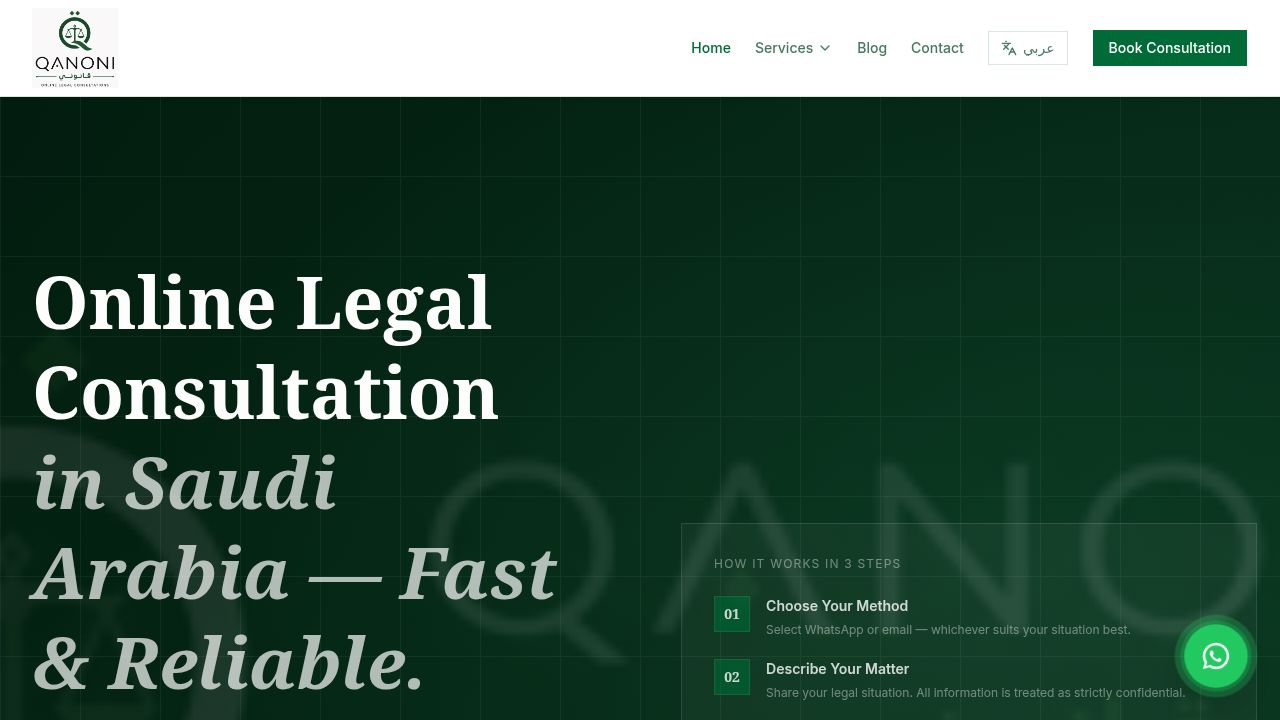
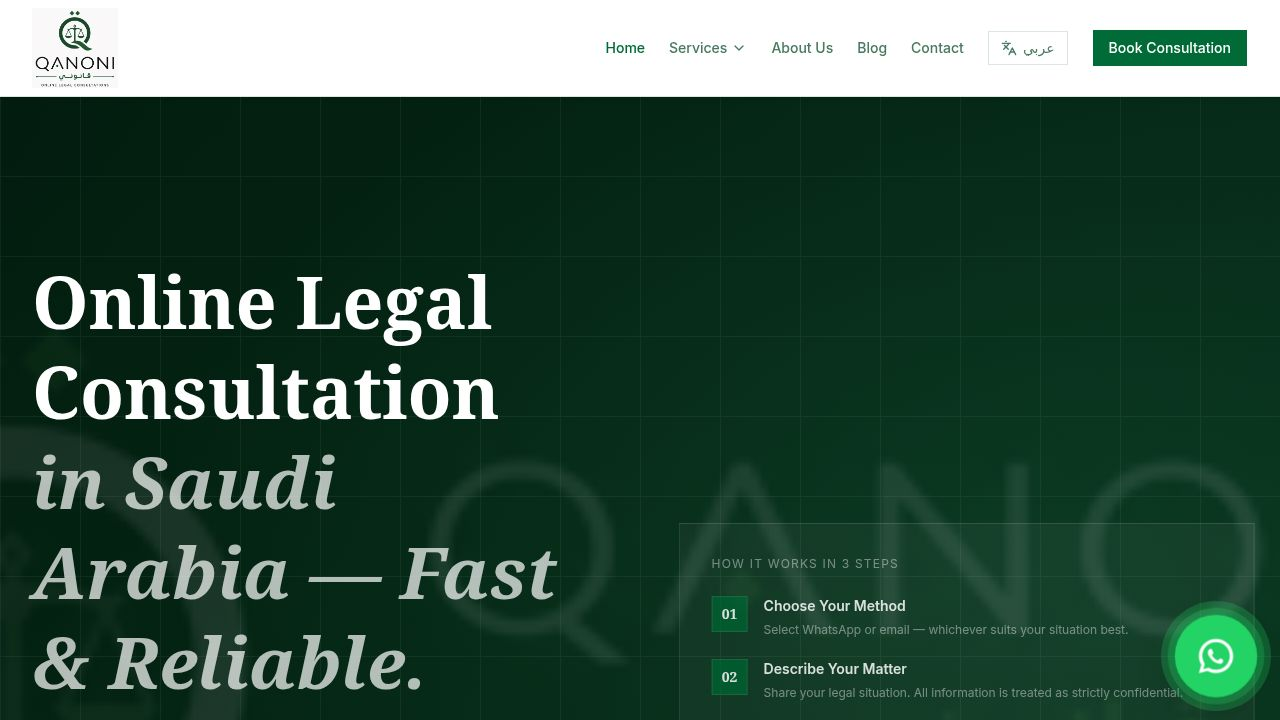
Add specific partner law firm details to the about page
Update the About page component and translation files to include the partner lawyer's name, license number, and full address for the Jubail office.

Replit-Commit-Author: Agent
Replit-Commit-Session-Id: bfefcff4-0caf-4eeb-a409-95a36b264a66
Replit-Commit-Checkpoint-Type: full_checkpoint
Replit-Commit-Event-Id: 6e372173-faa9-4c4b-8741-12a7a0e9f03f
Replit-Commit-Screenshot-Url: https://storage.googleapis.com/screenshot-production-us-central1/f129d334-b481-4846-ada9-79e4f7c0e077/bfefcff4-0caf-4eeb-a409-95a36b264a66/8v328af
Replit-Helium-Checkpoint-Created: true

diff --git a/artifacts/legal-site/src/pages/about.tsx b/artifacts/legal-site/src/pages/about.tsx
@@ -262,19 +262,22 @@ export default function About() {
             </motion.div>
             <motion.div initial={{ opacity: 0, x: isRTL ? -20 : 20 }} whileInView={{ opacity: 1, x: 0 }} viewport={{ once: true }}>
               <div className="bg-primary p-10 text-white">
-                <div className="flex items-center gap-4 mb-6">
-                  <div className="w-14 h-14 bg-white/15 border border-white/25 flex items-center justify-center">
+                <div className="flex items-start gap-4 mb-6">
+                  <div className="w-14 h-14 bg-white/15 border border-white/25 flex items-center justify-center shrink-0">
                     <MapPin className="h-7 w-7 text-white" />
                   </div>
                   <div>
-                    <div className="font-serif font-bold text-xl">{a.office.city}</div>
-                    <div className="text-white/70 text-sm">{a.office.region}</div>
+                    <div className="font-serif font-bold text-xl">{a.office.partnerName}</div>
+                    <div className="text-white/60 text-xs font-semibold uppercase tracking-wider mt-1">{a.office.licenseNo}</div>
                   </div>
+                </div>
+                <div className="border-t border-white/20 pt-6 mb-6">
+                  <p className="text-white/80 text-sm leading-relaxed whitespace-pre-line">{a.office.address}</p>
                 </div>
                 <div className="border-t border-white/20 pt-6 space-y-3">
                   {[
-                    isRTL ? "حضور قانوني ميداني في المنطقة الشرقية" : "Physical legal presence in the Eastern Province",
-                    isRTL ? "خدمة المحاكم والتوثيق والتمثيل الميداني" : "Court attendance, notarisation & in-person representation",
+                    isRTL ? "مكتب محاماة مرخَّص في المنطقة الشرقية" : "Licensed law office in the Eastern Province",
+                    isRTL ? "حضور شخصي أمام المحاكم وتوثيق الوثائق" : "Court attendance & official document processing",
                     isRTL ? "متكامل مع الخدمة الرقمية الأونلاين" : "Integrated with our full online digital service",
                     isRTL ? "يخدم عملاء جميع أنحاء المملكة" : "Serving clients across all of Saudi Arabia",
                   ].map((item, i) => (

diff --git a/artifacts/legal-site/src/translations/ar.ts b/artifacts/legal-site/src/translations/ar.ts
@@ -4889,11 +4889,14 @@ export const ar: typeof en = {
     },
     office: {
       eyebrow: "الحضور الميداني",
-      heading: "مكتب الجبيل، المملكة العربية السعودية — المنطقة الشرقية",
-      p1: "إضافةً إلى منصتنا الرقمية الكاملة، تعمل قانوني بالتعاون مع مكتب محاماة ميداني في الجبيل بالمملكة العربية السعودية — في المنطقة الشرقية. يكفل هذا الحضور الميداني أنه حين تستلزم قضيتك حضوراً شخصياً أمام المحاكم أو توثيق وثائق أو تمثيلاً وجهاً لوجه، سيكون فريقنا حاضراً.",
-      p2: "يستفيد عملاء قانوني في جميع أنحاء المملكة من سرعة الاستشارات الأونلاين ومرونتها، إلى جانب التمثيل القانوني الشامل المتاح عبر مكتب شريكنا الميداني في الجبيل حين تستدعي قضيتهم ذلك. سهولة رقمية — مع دعم ميداني حين تحتاجه.",
-      city: "الجبيل، المملكة العربية السعودية",
-      region: "المنطقة الشرقية · مدينة الجبيل الصناعية",
+      heading: "مكتب الجبيل — المحامي عبدالله العنزي",
+      p1: "إضافةً إلى منصتها الرقمية الكاملة، تتعاون قانوني مع مكتب المحامي عبدالله العنزي (رقم الترخيص 37440) في الجبيل البلد، المنطقة الشرقية — شارع المدينة المنورة، مبنى ردمه للشقق الفندقية. يضمن هذا الحضور الميداني أنه حين تستلزم قضيتك حضوراً شخصياً أمام المحاكم أو توثيق وثائق رسمية أو تمثيلاً قانونياً مباشراً، يتوفر لك مكتب محلي مرخَّص وجاهز للمساعدة.",
+      p2: "يستفيد عملاء قانوني في جميع أنحاء المملكة من سرعة خدمة الاستشارات الأونلاين ومرونتها، إلى جانب التمثيل القانوني الشامل المتاح عبر مكتبنا الميداني المرخَّص في الجبيل حين تستدعي قضيتهم ذلك. سهولة رقمية — مدعومة بحضور مكتبي ميداني حين تحتاجه.",
+      city: "الجبيل البلد، المملكة العربية السعودية",
+      region: "المنطقة الشرقية · شارع المدينة المنورة، مبنى ردمه للشقق الفندقية",
+      partnerName: "المحامي عبدالله العنزي",
+      licenseNo: "رقم الترخيص 37440",
+      address: "الجبيل البلد — شارع المدينة المنورة\nمبنى ردمه للشقق الفندقية\nالمنطقة الشرقية، المملكة العربية السعودية",
     },
     why: {
       eyebrow: "لماذا قانوني",

diff --git a/artifacts/legal-site/src/translations/en.ts b/artifacts/legal-site/src/translations/en.ts
@@ -4850,11 +4850,14 @@ export const en = {
     },
     office: {
       eyebrow: "Physical Presence",
-      heading: "Jubail, Saudi Arabia — Eastern Province Office",
-      p1: "In addition to our fully digital platform, Qanoni operates in cooperation with a physical law office in Jubail, Saudi Arabia — located in the Eastern Province. This physical presence ensures that when your matter requires in-person court attendance, document notarisation, or face-to-face legal representation, our team can be there.",
-      p2: "Qanoni clients across Saudi Arabia benefit from both the speed and convenience of online consultation and the full-service legal representation available through our Jubail office partner when the matter demands it. Digital convenience — with a physical backbone when you need it.",
-      city: "Jubail, Saudi Arabia",
-      region: "Eastern Province · Al-Jubail Industrial City",
+      heading: "Jubail Office — Lawyer Abdullah Al-Anzi",
+      p1: "In addition to its fully digital platform, Qanoni cooperates with the law office of Lawyer Abdullah Al-Anzi (License No. 37440) in Jubail, Saudi Arabia — located in Jubail Al-Balad on Madinah Street, Radma Hotel Apartments Building. This physical presence in the Eastern Province means that when your matter requires in-person court attendance, official document processing, or face-to-face legal representation, you have a licensed local office ready to assist.",
+      p2: "Qanoni clients across Saudi Arabia benefit from both the speed and convenience of our online consultation service and the full-service legal representation available through our licensed Jubail office when the matter demands it. Digital convenience — backed by a physical office presence when you need it.",
+      city: "Jubail Al-Balad, Saudi Arabia",
+      region: "Eastern Province · Madinah Street, Radma Hotel Apartments Building",
+      partnerName: "Lawyer Abdullah Al-Anzi",
+      licenseNo: "License No. 37440",
+      address: "Jubail Al-Balad — Madinah Street\nRadma Hotel Apartments Building\nEastern Province, Saudi Arabia",
     },
     why: {
       eyebrow: "Why Qanoni",